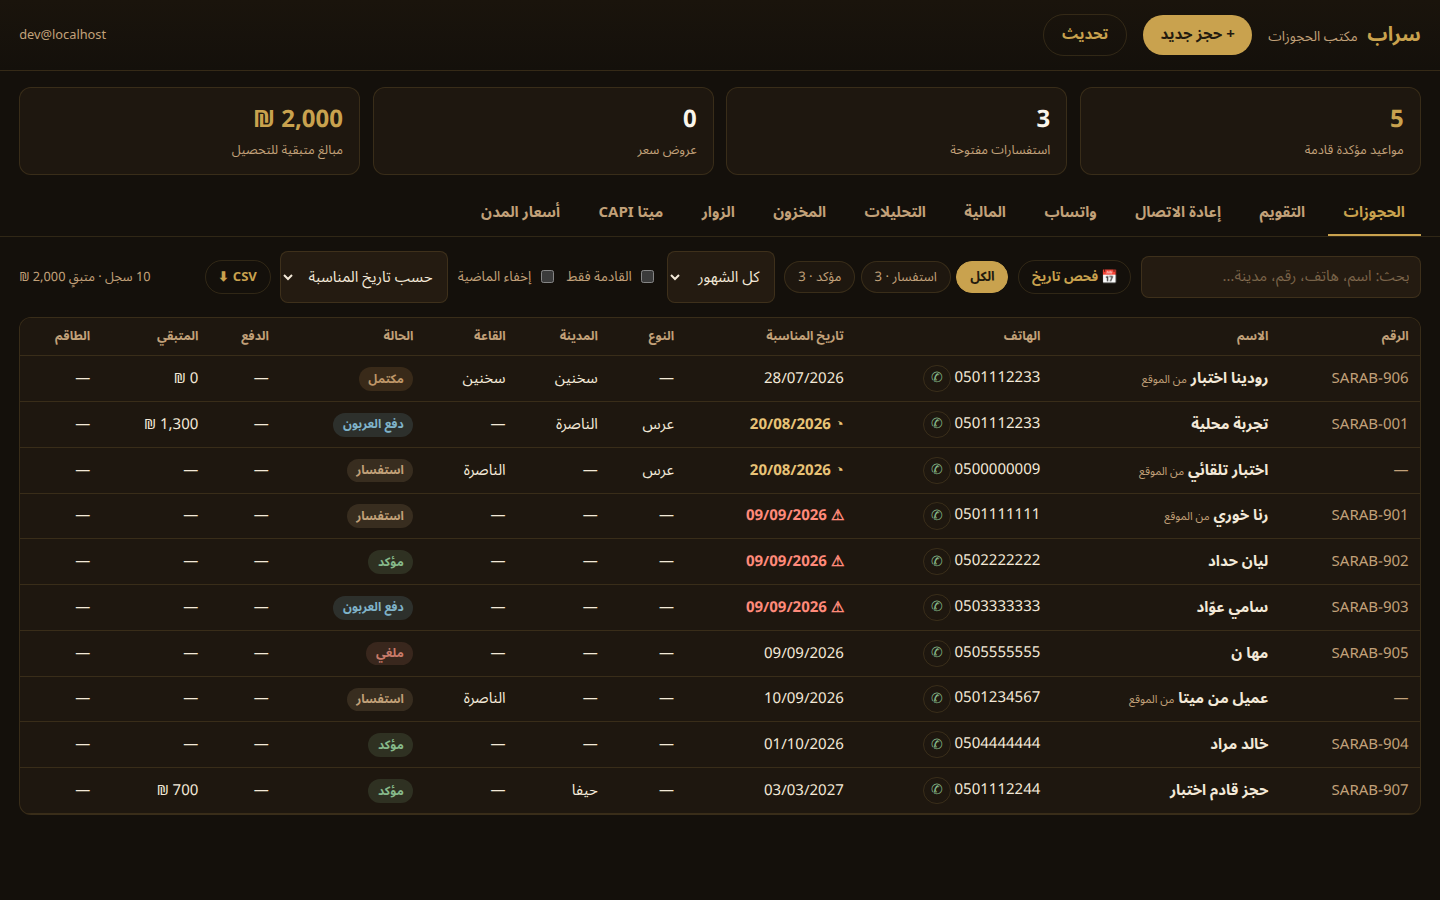
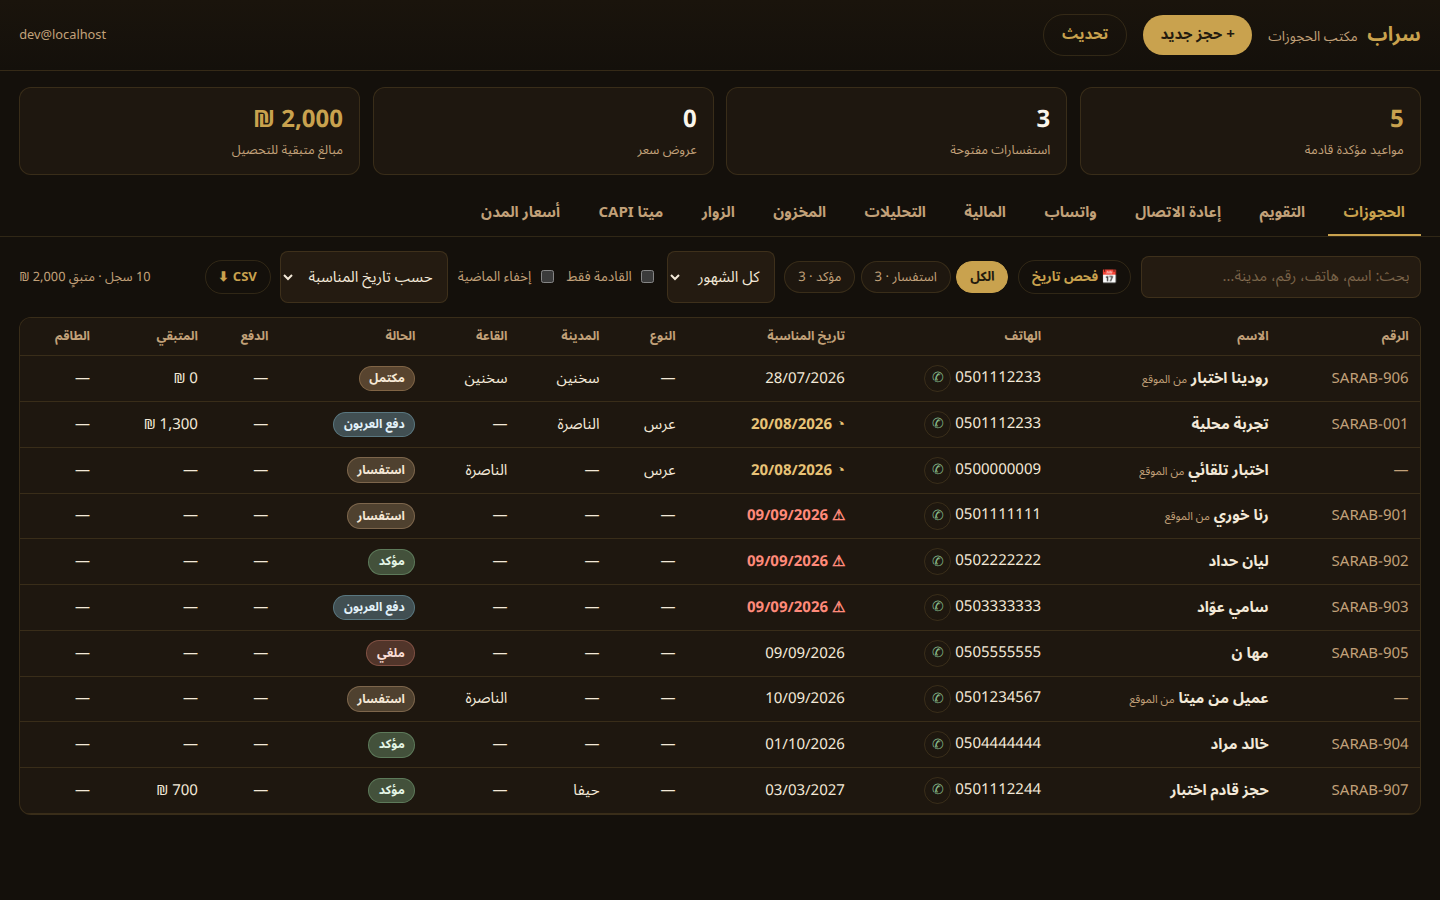
Office: التقويم opens on real bookings; one clearer status palette
Owner feedback from using the tab on a phone.

- The calendar defaults to real bookings (مؤكد / دفع العربون / مكتمل) instead of
  everything dated. The double-booking flag still comes from the server's
  conflict_dates across all statuses, so a hidden استفسار still raises the
  warning — and the header says «N معروضة من M» whenever the filter is holding
  something back, since a bare count beside a thinner grid would read as
  "that's all there is".
- Phone chips carry names again. They were font-size:0 colour bars, because a
  7-column month at 390px leaves ~50px per cell and a full name truncates to
  nothing. Each chip now holds two labels and CSS picks one: full (time + name)
  on a desktop column, first name alone on a phone.
- One status palette for the whole dashboard, [fill, text, pure hue]. The old
  ~16% fills with the hue as the text were tuned for a wide desktop table cell;
  at badge size on a dark phone card all six read as the same brown. Fills
  doubled, text lifted to a near-white tint, and badges gained a 1px outline in
  the pure hue — which does most of the work at that size. Calendar chips and
  agenda rows use the pure hue as a start-edge bar, so the status survives even
  when the name beside it is truncated away.

_vmonth.mjs now 20 checks; full suite green.

diff --git a/public/office/index.html b/public/office/index.html
@@ -207,9 +207,10 @@
   .cvchips{display:flex; flex-direction:column; gap:.18rem; position:relative; z-index:1}
   .cvchip{
     display:block; width:100%; text-align:start; border:none; border-radius:6px;
-    padding:.16rem .34rem; font-size:.72rem; font-weight:700; line-height:1.35;
-    overflow:hidden; text-overflow:ellipsis; white-space:nowrap;
+    padding:.16rem .34rem; padding-inline-start:.5rem; font-size:.72rem; font-weight:700;
+    line-height:1.35; overflow:hidden; text-overflow:ellipsis; white-space:nowrap;
   }
+  .cvshort{display:none}
   .cvchip.off{text-decoration:line-through; opacity:.55}
   /* a busy day shows three and counts the rest; +N opens the day in place */
   .cvchips > .cvchip:nth-child(n+4){display:none}
@@ -221,21 +222,26 @@
   .cvagenda{border:1px solid var(--line); border-radius:var(--r); background:var(--panel); overflow:hidden}
   .cvday + .cvday{border-top:1px solid var(--line)}
   .cvdate{padding:.45rem .8rem; background:var(--panel-2); color:var(--gold); font-size:.82rem; font-weight:800}
-  .cvitem{display:flex; gap:.6rem; align-items:center; flex-wrap:wrap; padding:.5rem .8rem; cursor:pointer; border-top:1px solid rgba(201,162,78,.08)}
+  .cvitem{display:flex; gap:.6rem; align-items:center; flex-wrap:wrap; padding:.5rem .8rem; padding-inline-start:1rem; cursor:pointer; border-top:1px solid rgba(201,162,78,.08)}
   .cvitem:hover{background:rgba(201,162,78,.06)}
   .cvitem .t{font-variant-numeric:tabular-nums; color:var(--muted); font-size:.8rem; min-width:3.1rem}
   .cvitem .n{font-weight:700}
   .cvitem .s{margin-inline-start:auto}
 
   @media (max-width:720px){
-    /* a 7-column month can't hold names on a phone: each booking becomes a coloured
-       bar, and the agenda underneath carries the detail */
-    .cvcell{min-height:3.5rem; padding:.2rem}
-    .cvchip{font-size:0; padding:0; height:7px; border-radius:999px}
-    .cvchips > .cvchip:nth-child(n+4){display:block}
-    .cvmore{display:none}
+    /* A phone column is ~50px, so the full name would truncate to nothing — the chip
+       switches to the first name alone (.cvshort) and keeps its colour bar. Everything
+       around it gives up a little size so the name has room. */
+    .cvcell{min-height:4rem; padding:.18rem; gap:.14rem}
+    .cvchip{font-size:.6rem; padding:.1rem .16rem; padding-inline-start:.32rem; border-radius:4px; line-height:1.32}
+    .cvfull{display:none}
+    .cvshort{display:inline}
+    .cvmore{font-size:.58rem; padding:0 .16rem}
+    .cvnum{font-size:.66rem}
     .cvhead .mon{min-width:6.5rem; font-size:.95rem}
-    .cvdow{font-size:.66rem; padding:.35rem .1rem}
+    .cvdow{font-size:.64rem; padding:.3rem .05rem}
+    .cvitem{gap:.35rem; padding:.5rem .55rem; padding-inline-start:.8rem}
+    .cvitem .t{min-width:2.6rem; font-size:.76rem}
   }
 
   /* expandable row editor (finance / inventory) */
@@ -382,16 +388,30 @@
 const $ = (s, el=document) => el.querySelector(s);
 const $$ = (s, el=document) => [...el.querySelectorAll(s)];
 
-const STATUS_COLORS = {
-  'استفسار':   ['rgba(194,161,121,.16)', '#C2A179'],
-  'عرض سعر':   ['rgba(201,162,78,.16)',  '#C9A24E'],
-  'مؤكد':      ['rgba(134,185,138,.16)', '#86B98A'],
-  'دفع العربون':['rgba(127,179,201,.16)','#7FB3C9'],
-  'مكتمل':     ['rgba(165,119,67,.2)',   '#BE9668'],
-  'ملغي':      ['rgba(201,123,106,.16)', '#C97B6A'],
-};
+/*
+  One status palette for the whole dashboard: [fill, text, pure hue].
 
-const state = { meta:null, rows:[], conflicts:new Set(), confirmedClashes:new Set(), tab:'bookings', filters:{ q:'', statusIn:[], statusEx:[], month:'', upcoming:false, nopast:false, order:'date', dateCheck:'' }, editing:null, remainTouched:false, calMonth:null, calRows:[], calRealOnly:false };
+  The original ~16% fills with the hue itself as the text were tuned for a wide desktop
+  table cell. On a phone — a small badge on a dark card, or a chip in a 50px-wide calendar
+  column — every one of them read as the same brown. These keep the exact same hues but
+  roughly double the fill and lift the text to a near-white tint of it, so the six statuses
+  are told apart at a glance and in sunlight. The third value is the undiluted colour, used
+  for the solid bar on the start edge of calendar chips and agenda rows: the status still
+  reads even when the name beside it has been truncated away.
+*/
+const STATUS_COLORS = {
+  'استفسار':    ['rgba(194,161,121,.30)', '#F5E8D6', '#C2A179'],
+  'عرض سعر':    ['rgba(201,162,78,.34)',  '#FAEFCE', '#C9A24E'],
+  'مؤكد':       ['rgba(134,185,138,.36)', '#E4F5E6', '#86B98A'],
+  'دفع العربون':['rgba(127,179,201,.36)', '#E1F1F8', '#7FB3C9'],
+  'مكتمل':      ['rgba(190,150,104,.36)', '#F6E9D6', '#BE9668'],
+  'ملغي':       ['rgba(201,123,106,.30)', '#FADDD6', '#C97B6A'],
+};
+const calColor = (s) => STATUS_COLORS[s] || ['rgba(194,161,121,.2)', 'var(--text)', 'var(--muted)'];
+
+// calRealOnly starts ON: the calendar answers "what am I actually committed to?", so it
+// opens on real bookings only. Unticking brings the استفسارات and عروض السعر back in.
+const state = { meta:null, rows:[], conflicts:new Set(), confirmedClashes:new Set(), tab:'bookings', filters:{ q:'', statusIn:[], statusEx:[], month:'', upcoming:false, nopast:false, order:'date', dateCheck:'' }, editing:null, remainTouched:false, calMonth:null, calRows:[], calRealOnly:true };
 
 async function api(path, opts={}) {
   const res = await fetch(path, { headers:{'Content-Type':'application/json'}, ...opts });
@@ -485,8 +505,10 @@ function renderMonths() {
 }
 
 function badge(s) {
-  const [bg, fg] = STATUS_COLORS[s] || ['rgba(194,161,121,.12)', 'var(--muted)'];
-  return `<span class="badge" style="background:${bg};color:${fg}">${esc(s || '—')}</span>`;
+  // The outline does most of the work at badge size — a tinted fill alone still reads as
+  // "some brown pill" on a phone; a crisp edge in the pure hue names the status instantly.
+  const [bg, fg, pure] = calColor(s);
+  return `<span class="badge" style="background:${bg};color:${fg};border:1px solid ${pure}66">${esc(s || '—')}</span>`;
 }
 
 // Status priority for the date check: real bookings first, then advance, inquiries, cancelled last.
@@ -1585,12 +1607,17 @@ function renderCalendarTab(soonRows) {
     list.sort((a, b) => String(a.start_time || '~').localeCompare(String(b.start_time || '~')) || a.id - b.id);
   }
 
+  // Two labels, one chip: the full one on a desktop column, the first name alone on a
+  // phone's ~50px column — where the full name would truncate to nothing readable.
   const chip = (r) => {
-    const [bg, fg] = STATUS_COLORS[r.status] || ['rgba(194,161,121,.12)', 'var(--muted)'];
+    const [bg, fg, bar] = calColor(r.status);
     const t = String(r.start_time || '').slice(0, 5);
-    const tip = [r.booking_no || '#' + r.id, fullName(r), r.city, r.status, r.venue].filter(Boolean).join(' · ');
+    const name = fullName(r);
+    const tip = [r.booking_no || '#' + r.id, name, r.city, r.status, r.venue].filter(Boolean).join(' · ');
     return `<button class="cvchip${r.status === 'ملغي' ? ' off' : ''}" data-id="${r.id}"
-      style="background:${bg};color:${fg}" title="${esc(tip)}">${t ? esc(t) + ' ' : ''}${esc(fullName(r))}</button>`;
+      style="background:${bg};color:${fg};box-shadow:inset -3px 0 0 ${bar}" title="${esc(tip)}"
+      ><span class="cvfull">${t ? esc(t) + ' ' : ''}${esc(name)}</span><span
+       class="cvshort">${esc(name.split(' ')[0])}</span></button>`;
   };
 
   // Leading blanks so the 1st lands on its real weekday; trailing blanks square the grid.
@@ -1624,7 +1651,8 @@ function renderCalendarTab(soonRows) {
   const agenda = dates.length ? dates.map((iso) => `<div class="cvday">
       <div class="cvdate">${dmy(iso)} · ${AR_DOW[new Date(iso + 'T00:00:00Z').getUTCDay()]}${
         iso === T ? ' · اليوم' : ''}</div>
-      ${byDate.get(iso).map((r) => `<div class="cvitem" data-id="${r.id}">
+      ${byDate.get(iso).map((r) => `<div class="cvitem" data-id="${r.id}"
+        style="box-shadow:inset -3px 0 0 ${calColor(r.status)[2]}">
         <span class="t">${esc(String(r.start_time || '').slice(0, 5) || '—')}</span>
         <span class="n">${esc(fullName(r))}</span>
         <span class="muted">${esc([r.city, r.venue, r.occasion].filter(Boolean).join(' · ') || '—')}</span>
@@ -1654,7 +1682,10 @@ function renderCalendarTab(soonRows) {
       <button class="cvnav" id="cvNext" title="الشهر التالي" aria-label="الشهر التالي">◀</button>
       <button class="btn btn--ghost btn--sm" id="cvToday">اليوم</button>
       <label class="toggle"><input type="checkbox" id="cvRealOnly" ${state.calRealOnly ? 'checked' : ''}> المؤكدة فقط</label>
-      <span class="count">${state.calRows.length} مناسبة · ${count((r) => r.status === 'مؤكد' || r.status === 'مكتمل')} مؤكدة
+      <span class="count">${
+        // Say so when the filter is hiding some — "4 مناسبة" beside 12 chips would lie.
+        rows.length !== state.calRows.length ? `${rows.length} معروضة من ` : ''
+      }${state.calRows.length} مناسبة · ${count((r) => r.status === 'مؤكد' || r.status === 'مكتمل')} مؤكدة
         · ${count((r) => r.status === 'دفع العربون')} عربون · متبقٍ ${money(due)}</span>
     </div>
     ${soonHtml ? `<div class="verdict adv">${soonHtml}</div>` : ''}

diff --git a/docs/05-DEPLOY-AND-BACKEND.md b/docs/05-DEPLOY-AND-BACKEND.md
@@ -683,3 +683,32 @@ is a calendar entry**; the tab just draws them.
   browser flips them and both month arrows end up pointing the same way. The nav uses
   `▶`/`◀` (geometric shapes, never mirrored), with ▶ = back because time runs
   right-to-left here.
+
+### 2026-07-29 (3rd) — التقويم opens on real bookings · one clearer status palette
+
+Owner feedback after using the tab: it should default to confirmed bookings rather than
+everything, and on a phone the colours were indistinct and the calendar showed no names.
+
+- **Default is now real bookings only** (`state.calRealOnly` starts `true`): the calendar
+  answers "what am I actually committed to?", so استفسارات and عروض السعر stay out until the
+  المؤكدة فقط tick is cleared. The double-booking flag still comes from the server's
+  `conflict_dates` (all statuses), so **a hidden استفسار still raises the warning** — the
+  owner sees the danger and can untick to see what's causing it. The header says
+  «N معروضة من M مناسبة» whenever the filter is holding something back; a bare count beside
+  a thinner grid would have read as "that's all there is".
+- **Names on the phone.** The chips were `font-size:0` colour bars — a 7-column month at
+  390px gives each cell ~50px, where a full name truncates to nothing. Each chip now carries
+  two labels and CSS picks one: `.cvfull` (time + full name) on a desktop column,
+  `.cvshort` (first name alone) on a phone. Cell height 4rem, chip 0.6rem, and the
+  surrounding chrome (dow row, day numbers, agenda padding) gives up a little size to fund it.
+- **One status palette for the whole dashboard**, now `[fill, text, pure hue]`. The old ~16%
+  fills with the hue itself as the text were tuned for a wide desktop table cell; at badge
+  size on a dark phone card all six read as the same brown. Fills roughly doubled, text
+  lifted to a near-white tint, and — doing most of the work — `badge()` gained a 1px outline
+  in the pure hue. Calendar chips and agenda rows use the third value as a solid bar on their
+  start edge, so the status survives even when the name beside it is truncated away.
+  `STATUS_COLORS` is the single source; `calColor()` is the accessor with the fallback.
+- Tests: `_vmonth.mjs` now 20 checks (added `defaultRealOnly`, `countAdmitsHiding`,
+  `filterReveals`, `phoneNameVisible` — asserting `.cvshort` is the visible label, `.cvfull`
+  is not, and the chip is tall enough to hold text). Full suite re-run green. Deployed
+  `8d132bcb`; secrets intact, apex 200, /office still 302 to Access, prod 154 bookings.
